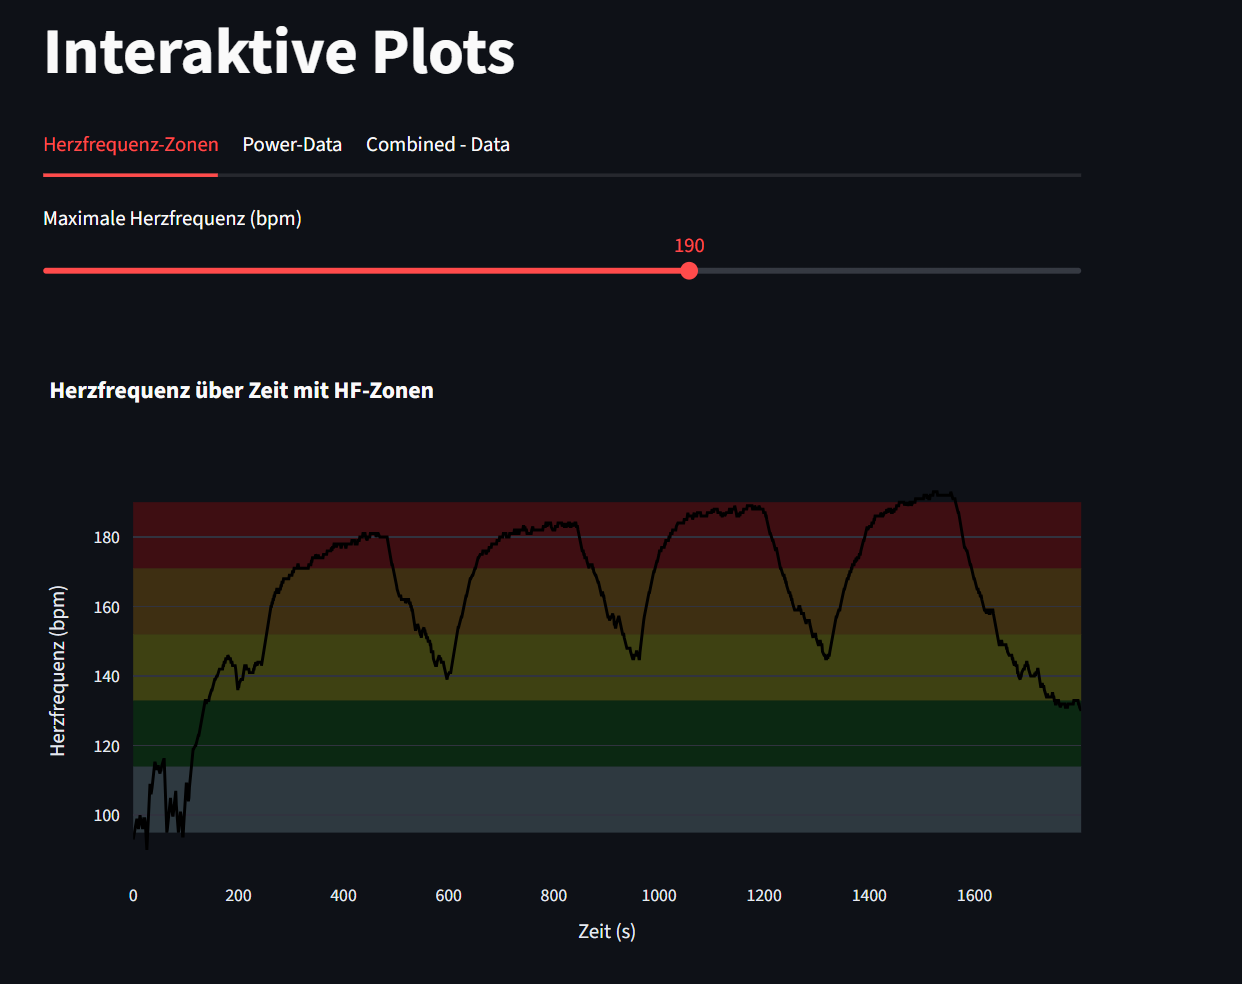
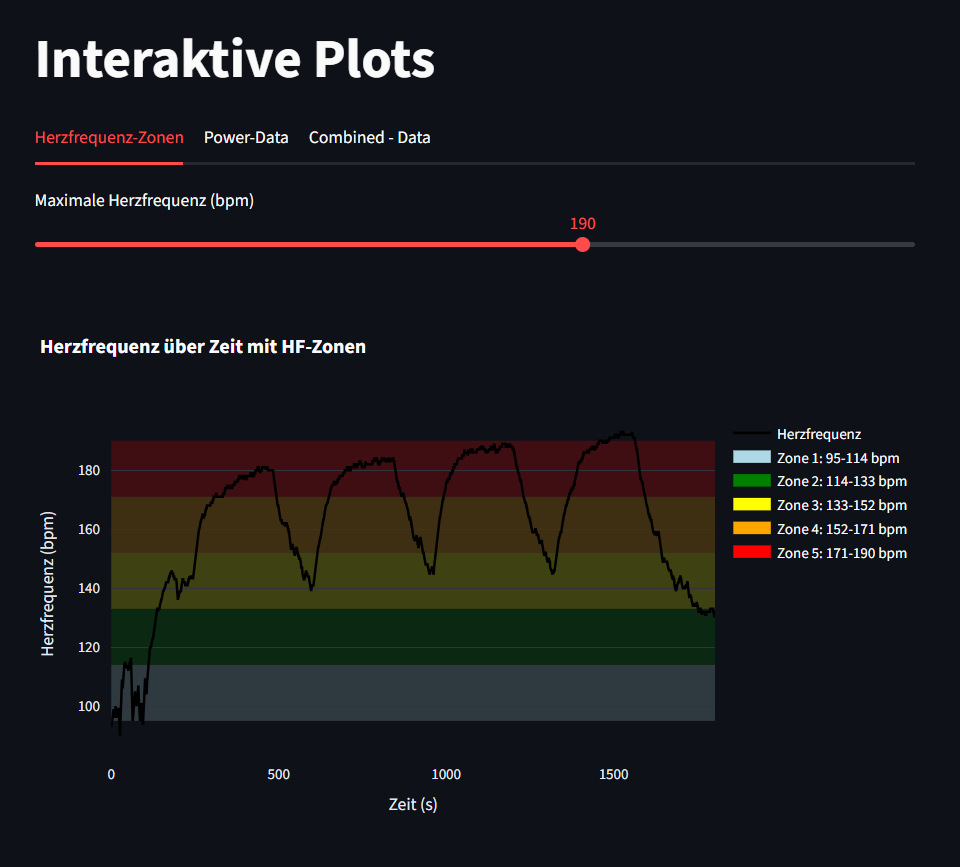
Lengende hinzugefuegt, Screenshot aktualisiert

diff --git a/make_plot.py b/make_plot.py
@@ -84,6 +84,14 @@ def plot_line_hr(data, max_hr):
             layer="below"
         )
 
+        fig.add_trace(go.Scatter(
+            x=[None],
+            y=[None],
+            mode="lines",
+            line=dict(width=10, color=colors.get(zone, "gray")),
+            name=f"Zone {zone}: {int(y0)}-{int(y1)} bpm"
+        ))
+
     fig.update_layout(
         title="Herzfrequenz über Zeit mit HF-Zonen",
         xaxis_title="Zeit (s)",